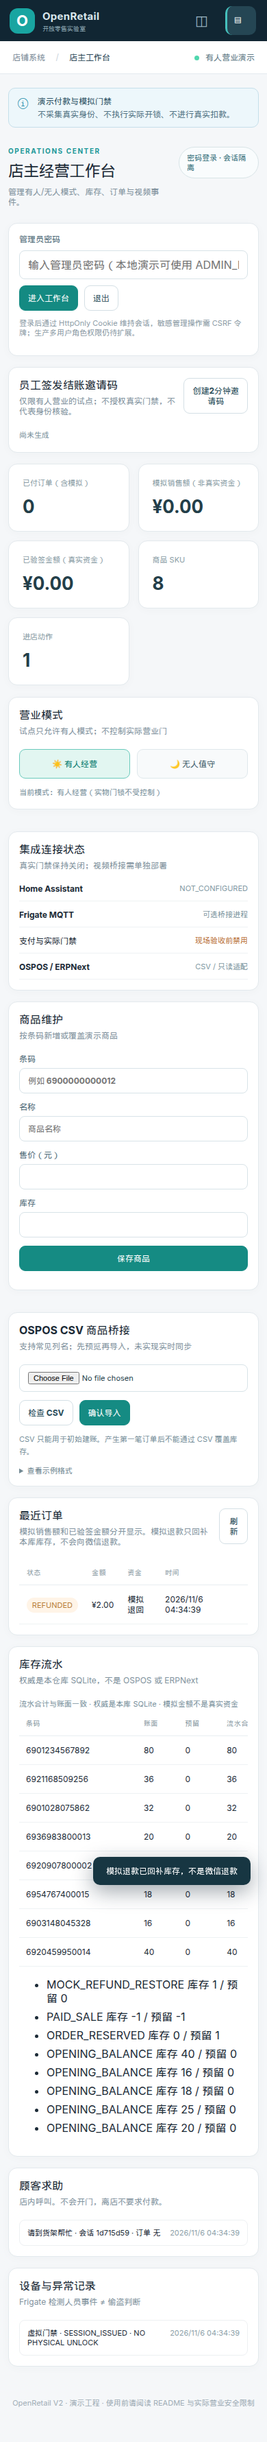
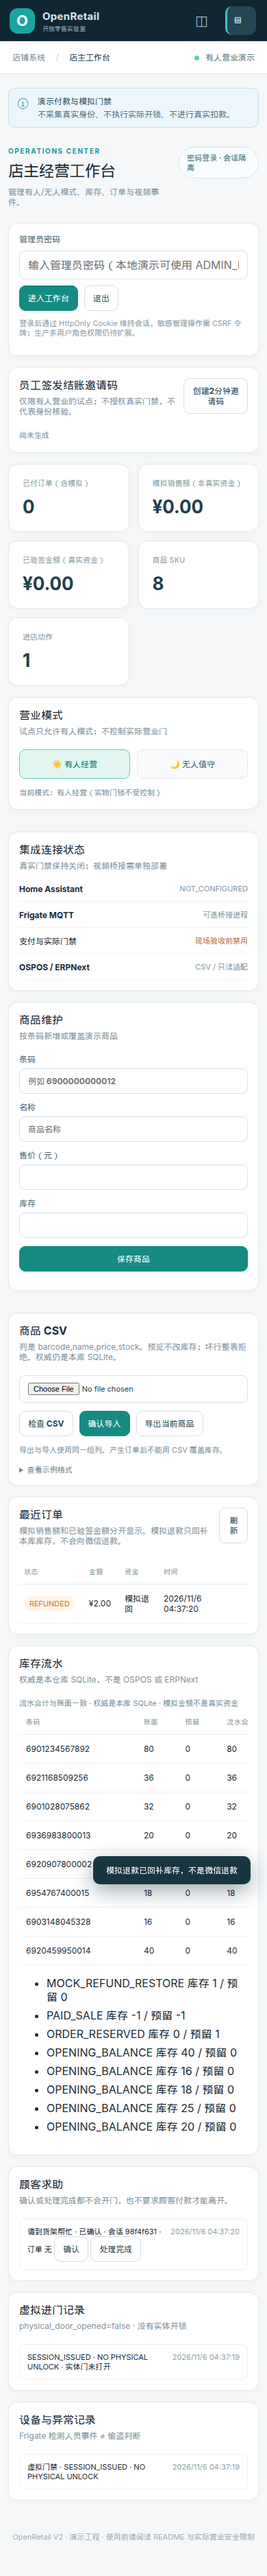
Export the SQLite catalog and let staff close help requests.
CSV export uses the same barcode, name, price, and stock columns as import. A bad file or a preview does not change stock. Staff can acknowledge help requests, and the admin page lists virtual entry events with the physical door still closed.

Changed region(s): [[0.0308, 0.0, 0.9538, 0.9666], [0.7385, 0.343, 0.9231, 0.4053], [0.7385, 0.2806, 0.7692, 0.3118]]

diff --git a/web/app.js b/web/app.js
@@ -42,9 +42,9 @@ async function showEntryStatus(){const status=await api('/api/entry/status',{gue
 async function createOrder(){if(!state.token)throw Error('先创建访客会话');const req={request_id:(crypto.randomUUID?.()||('demo-'+Date.now()+'-'+Math.random())),lines:[...state.cart].map(([product_id,quantity])=>({product_id,quantity}))};const r=await api('/api/orders',{method:'POST',body:req,guest:true});state.orderId=r.id;$('cancel-order-btn').disabled=false;$('pay-btn').disabled=state.paymentProvider==='DISABLED';$('payment-qr').hidden=true;showPay(r);await refreshMine();return r}
 async function confirmMock(){const r=await api('/api/payments/mock-confirm',{method:'POST',body:{order_id:state.orderId},guest:true});showPay(r);if(r.status==='PAID'){state.cart.clear();state.orderId='';$('cancel-order-btn').disabled=true;$('pay-btn').disabled=true;await loadProducts()}await refreshMine();return r}
 function fundLabel(order){if(order.status==='PAID'&&order.provider==='MOCK_NOT_REAL_MONEY')return '模拟销售额';if(Number(order.verified)===1)return '已验签真实资金';if(order.status==='REFUNDED'&&order.provider==='MOCK_NOT_REAL_MONEY')return '模拟退回';return '未收款'}
-async function adminRefresh(){if(!state.csrf)return;const [overview,orders,events,ledger,help]=await Promise.all([api('/api/admin/overview',{admin:true}),api('/api/admin/orders',{admin:true}),api('/api/admin/events',{admin:true}),api('/api/admin/inventory-ledger',{admin:true}),api('/api/admin/help-requests',{admin:true})]);$('admin-body').hidden=false;$('m-orders').textContent=overview.paid_orders;$('m-sales').textContent=money(overview.simulated_revenue_cents);$('m-real').textContent=money(overview.verified_revenue_cents);$('m-products').textContent=overview.products;$('m-entries').textContent=overview.door_events;$('mode-info').textContent='当前模式：'+(overview.mode==='UNATTENDED'?'无人值守':'有人经营')+'（实物门锁不受控制）';$('ha-state').textContent=overview.home_assistant.status;$('mode-staffed').classList.toggle('selected',overview.mode==='STAFFED');$('mode-unattended').classList.toggle('selected',overview.mode==='UNATTENDED');$('order-table').innerHTML=orders.map(o=>{const refund=o.status==='PAID'&&o.provider==='MOCK_NOT_REAL_MONEY'&&Number(o.verified)!==1?`<button class="btn secondary" type="button" data-mock-refund="${esc(o.id)}">模拟退款</button>`:'';return `<tr><td title="${esc(o.id)}">${esc(o.id.slice(0,12))}…</td><td><span class="status ${o.status==='PAID'?'paid':''}">${esc(o.status)}</span></td><td>${money(o.total_cents)}</td><td>${esc(fundLabel(o))}</td><td>${time(o.created_at)}</td><td>${refund}</td></tr>`}).join('')||'<tr><td colspan="6">暂无订单</td></tr>';$('ledger-balance').textContent=(ledger.balanced?'流水合计与账面一致':'流水与账面不一致，需要人工核对')+' · 权威是本库 SQLite · 模拟金额不是真实资金';$('ledger-table').innerHTML=ledger.products.map(p=>`<tr><td>${esc(p.barcode)}</td><td>${p.stock}</td><td>${p.reserved_stock}</td><td>${p.ledger_stock}</td><td>${p.balanced?'一致':'不一致'}</td></tr>`).join('')||'<tr><td colspan="5">没有商品</td></tr>';$('ledger-moves').innerHTML=ledger.movements.slice(0,8).map(m=>`<li>${esc(m.reason)} 库存 ${m.stock_delta} / 预留 ${m.reserved_delta}</li>`).join('');$('help-list').innerHTML=(help.requests||[]).map(h=>`<div class="event"><span>${esc(h.message)} · 会话 ${esc((h.session_id||'无').slice(0,8))} · 订单 ${esc((h.order_id||'无').slice(0,8))}</span><time>${time(h.created_at)}</time></div>`).join('')||'<p class="muted">没有求助</p>';const incident=events.frigate.map(e=>({name:'Frigate 人员事件 · '+e.camera+' · '+e.event_type,t:e.created_at})),doors=events.door.map(e=>({name:'虚拟门禁 · '+e.result+' · '+e.detail,t:e.created_at}));$('event-list').innerHTML=[...incident,...doors].sort((a,b)=>b.t-a.t).slice(0,15).map(e=>`<div class="event"><span>${esc(e.name)}</span><time>${time(e.t)}</time></div>`).join('')||'<p class="muted">暂无设备事件</p>'}
+async function adminRefresh(){if(!state.csrf)return;const [overview,orders,events,ledger,help]=await Promise.all([api('/api/admin/overview',{admin:true}),api('/api/admin/orders',{admin:true}),api('/api/admin/events',{admin:true}),api('/api/admin/inventory-ledger',{admin:true}),api('/api/admin/help-requests',{admin:true})]);$('admin-body').hidden=false;$('m-orders').textContent=overview.paid_orders;$('m-sales').textContent=money(overview.simulated_revenue_cents);$('m-real').textContent=money(overview.verified_revenue_cents);$('m-products').textContent=overview.products;$('m-entries').textContent=overview.door_events;$('mode-info').textContent='当前模式：'+(overview.mode==='UNATTENDED'?'无人值守':'有人经营')+'（实物门锁不受控制）';$('ha-state').textContent=overview.home_assistant.status;$('mode-staffed').classList.toggle('selected',overview.mode==='STAFFED');$('mode-unattended').classList.toggle('selected',overview.mode==='UNATTENDED');$('order-table').innerHTML=orders.map(o=>{const refund=o.status==='PAID'&&o.provider==='MOCK_NOT_REAL_MONEY'&&Number(o.verified)!==1?`<button class="btn secondary" type="button" data-mock-refund="${esc(o.id)}">模拟退款</button>`:'';return `<tr><td title="${esc(o.id)}">${esc(o.id.slice(0,12))}…</td><td><span class="status ${o.status==='PAID'?'paid':''}">${esc(o.status)}</span></td><td>${money(o.total_cents)}</td><td>${esc(fundLabel(o))}</td><td>${time(o.created_at)}</td><td>${refund}</td></tr>`}).join('')||'<tr><td colspan="6">暂无订单</td></tr>';$('ledger-balance').textContent=(ledger.balanced?'流水合计与账面一致':'流水与账面不一致，需要人工核对')+' · 权威是本库 SQLite · 模拟金额不是真实资金';$('ledger-table').innerHTML=ledger.products.map(p=>`<tr><td>${esc(p.barcode)}</td><td>${p.stock}</td><td>${p.reserved_stock}</td><td>${p.ledger_stock}</td><td>${p.balanced?'一致':'不一致'}</td></tr>`).join('')||'<tr><td colspan="5">没有商品</td></tr>';$('ledger-moves').innerHTML=ledger.movements.slice(0,8).map(m=>`<li>${esc(m.reason)} 库存 ${m.stock_delta} / 预留 ${m.reserved_delta}</li>`).join('');const helpLabel={OPEN:'待处理',ACKNOWLEDGED:'已确认',RESOLVED:'已处理'};$('help-list').innerHTML=(help.requests||[]).map(h=>{const buttons=h.status==='RESOLVED'?'':`<button class="btn secondary" type="button" data-help-id="${esc(h.id)}" data-help-status="ACKNOWLEDGED">确认</button> <button class="btn secondary" type="button" data-help-id="${esc(h.id)}" data-help-status="RESOLVED">处理完成</button>`;return `<div class="event"><span>${esc(h.message)} · ${esc(helpLabel[h.status]||h.status)} · 会话 ${esc((h.session_id||'无').slice(0,8))} · 订单 ${esc((h.order_id||'无').slice(0,8))} ${buttons}</span><time>${time(h.created_at)}</time></div>`}).join('')||'<p class="muted">没有求助</p>';$('door-lock-note').textContent=events.physical_door_opened===false?'physical_door_opened=false · 没有实体开锁':'门状态异常';$('door-event-list').innerHTML=(events.door||[]).map(e=>`<div class="event"><span>${esc(e.result)} · ${esc(e.detail)} · 实体门未打开</span><time>${time(e.created_at)}</time></div>`).join('')||'<p class="muted">没有虚拟进门记录</p>';const incident=events.frigate.map(e=>({name:'Frigate 人员事件 · '+e.camera+' · '+e.event_type,t:e.created_at})),doors=events.door.map(e=>({name:'虚拟门禁 · '+e.result+' · '+e.detail,t:e.created_at}));$('event-list').innerHTML=[...incident,...doors].sort((a,b)=>b.t-a.t).slice(0,15).map(e=>`<div class="event"><span>${esc(e.name)}</span><time>${time(e.t)}</time></div>`).join('')||'<p class="muted">暂无设备事件</p>'}
 async function run(fn){try{await fn()}catch(e){toast(e.message);console.error(e)}}
-document.addEventListener('click',e=>{const refund=e.target.closest('[data-mock-refund]');if(refund){run(async()=>{const r=await api('/api/admin/orders/'+refund.dataset.mockRefund+'/mock-refund',{admin:true,method:'POST'});toast(r.real_money?'异常：模拟退款不应产生真实资金':'模拟退款已回补库存，不是微信退款');await adminRefresh();await loadProducts()});return}const nav=e.target.closest('[data-panel]');if(nav){document.querySelectorAll('.nav').forEach(n=>n.classList.toggle('active',n===nav));['shop','admin'].forEach(p=>$('panel-'+p).hidden=p!==nav.dataset.panel);$('current-title').textContent=nav.dataset.panel==='shop'?'顾客自助购物':'店主工作台';if(nav.dataset.panel==='admin')run(adminRefresh)}const addButton=e.target.closest('[data-add]');if(addButton)add(addButton.dataset.add);const minus=e.target.closest('[data-minus]');if(minus){if(state.orderId){toast('请先完成或取消当前订单');return}const id=Number(minus.dataset.minus);const q=(state.cart.get(id)||0)-1;if(q<=0)state.cart.delete(id);else state.cart.set(id,q);state.orderId='';$('pay-btn').disabled=true;renderCart()}});
+document.addEventListener('click',e=>{const refund=e.target.closest('[data-mock-refund]');if(refund){run(async()=>{const r=await api('/api/admin/orders/'+refund.dataset.mockRefund+'/mock-refund',{admin:true,method:'POST'});toast(r.real_money?'异常：模拟退款不应产生真实资金':'模拟退款已回补库存，不是微信退款');await adminRefresh();await loadProducts()});return}const helpAction=e.target.closest('[data-help-status]');if(helpAction){run(async()=>{const r=await api('/api/admin/help-requests/'+helpAction.dataset.helpId+'/status',{admin:true,method:'POST',body:{status:helpAction.dataset.helpStatus}});if(r.physical_door_opened||r.payment_required_to_leave||r.door_authorized)throw Error('处理求助不应开门或要求付款');toast(r.status==='RESOLVED'?'求助已处理，门未打开':'已确认求助，门未打开');await adminRefresh()});return}const nav=e.target.closest('[data-panel]');if(nav){document.querySelectorAll('.nav').forEach(n=>n.classList.toggle('active',n===nav));['shop','admin'].forEach(p=>$('panel-'+p).hidden=p!==nav.dataset.panel);$('current-title').textContent=nav.dataset.panel==='shop'?'顾客自助购物':'店主工作台';if(nav.dataset.panel==='admin')run(adminRefresh)}const addButton=e.target.closest('[data-add]');if(addButton)add(addButton.dataset.add);const minus=e.target.closest('[data-minus]');if(minus){if(state.orderId){toast('请先完成或取消当前订单');return}const id=Number(minus.dataset.minus);const q=(state.cart.get(id)||0)-1;if(q<=0)state.cart.delete(id);else state.cart.set(id,q);state.orderId='';$('pay-btn').disabled=true;renderCart()}});
 $('entry-btn').onclick=()=>run(async()=>{const s=await api('/api/entry',{method:'POST'});state.token=s.guest_token;sessionStorage.setItem('retail_guest',state.token);$('entry-result').textContent='访客会话创建成功（未进行身份核验）；有效期至 '+time(s.expires_at);$('door-btn').disabled=false;await showEntryStatus();renderCart();toast('演示访客会话已创建')});
 $('door-btn').onclick=()=>run(async()=>{if(!state.token)throw Error('请先创建会话');const r=await api('/api/door/open',{method:'POST',guest:true});if(r.physical_door_opened)throw Error('实体门状态异常');$('entry-result').textContent='开门结果：'+r.result+'。实际门锁未动作。';$('entry-status').textContent='实体门未打开 · physical_door_opened=false · 虚拟事件 '+(r.events||[]).map(e=>e.result).join('、');toast('仅模拟开门成功')});
 $('help-btn').onclick=()=>run(async()=>{const message=$('help-message').value.trim();const r=await api('/api/help',{method:'POST',body:{message,order_id:state.orderId||null},guest:!!state.token});if(r.physical_door_opened||r.payment_required_to_leave)throw Error('求助状态异常');$('help-result').textContent='已通知店员 · '+time(r.created_at)+' · 不会打开实体门 · 离店不需要付款';$('help-message').value='';toast('已呼叫店员')});
@@ -110,6 +110,7 @@ $('refresh-admin').onclick=()=>run(async()=>{await adminRefresh();await loadProd
 $('product-form').onsubmit=e=>{e.preventDefault();run(async()=>{const f=new FormData(e.target);const r=await api('/api/admin/products',{admin:true,method:'POST',body:{barcode:String(f.get('barcode')).trim(),name:String(f.get('name')).trim(),price_cents:Math.round(Number(f.get('price'))*100),stock:Number(f.get('stock')),active:true}});if(r.ok){$('product-status').textContent='商品已保存';e.target.reset();await adminRefresh();await loadProducts();toast('商品保存成功')}})};
 async function uploadCsv(dry){const file=$('csv-file').files?.[0];if(!file)throw Error('请先选择 CSV 文件');if(!dry&&!confirm('仅允许首次建账导入；已有订单将拒绝覆盖库存。确定继续？'))return;const data=new FormData();data.append('file',file);const r=await api('/api/admin/import-products?dry_run='+String(dry),{admin:true,method:'POST',form:true,body:data});$('csv-status').textContent=dry?'检查通过，共 '+r.count+' 条：'+r.preview.map(x=>x.name).slice(0,4).join('、'):'已导入 '+r.count+' 条商品。注意不会自动同步到 OSPOS。';if(!dry){await loadProducts();await adminRefresh()}toast(dry?'CSV 检查通过':'CSV 已导入')}
 $('csv-preview').onclick=()=>run(()=>uploadCsv(true));$('csv-import').onclick=()=>run(()=>uploadCsv(false));
+$('csv-export').onclick=()=>run(async()=>{const res=await fetch('/api/admin/export-products',{credentials:'same-origin',cache:'no-store'});if(!res.ok)throw Error('导出失败');const text=await res.text();const blob=new Blob([text],{type:'text/csv'});const link=document.createElement('a');link.href=URL.createObjectURL(blob);link.download='openretail-products.csv';link.click();URL.revokeObjectURL(link.href);if(!text.startsWith('barcode,name,price,stock'))throw Error('导出列不正确');$('csv-status').textContent='已导出当前 SQLite 商品，列与导入相同。';toast('商品 CSV 已导出')});
 if(state.token){$('door-btn').disabled=false;$('entry-result').textContent='已恢复当前浏览器的访客会话（可能已过期）';run(async()=>{await showEntryStatus();await refreshMine()})}
 // 管理员密码和 CSRF 令牌仅存在内存中；刷新页面后需重新登录。
 run(async()=>{await store();await loadProducts()});

diff --git a/web/index.html b/web/index.html
@@ -52,12 +52,13 @@
         </div>
         <div class="admin-grid">
           <article class="surface"><div class="surface-heading"><div><h2>商品维护</h2><p>按条码新增或覆盖演示商品</p></div></div><form id="product-form" class="product-form"><label>条码<input name="barcode" placeholder="例如 6900000000012" required></label><label>名称<input name="name" placeholder="商品名称" required></label><label>售价（元）<input name="price" type="number" min="0" step="0.01" required></label><label>库存<input name="stock" type="number" min="0" step="1" required></label><button class="btn primary" type="submit">保存商品</button></form><div class="inline-note" id="product-status"></div></article>
-          <article class="surface"><div class="surface-heading"><div><h2>OSPOS CSV 商品桥接</h2><p>支持常见列名；先预览再导入，未实现实时同步</p></div></div><input type="file" id="csv-file" accept=".csv,text/csv"><div class="actions"><button class="btn secondary" id="csv-preview">检查 CSV</button><button class="btn primary" id="csv-import">确认导入</button></div><div id="csv-status" class="inline-note">CSV 只能用于初始建账。产生第一笔订单后不能通过 CSV 覆盖库存。</div><details><summary>查看示例格式</summary><pre>barcode,name,price,stock
+          <article class="surface"><div class="surface-heading"><div><h2>商品 CSV</h2><p>列是 barcode,name,price,stock。预览不改库存；坏行整表拒绝。权威仍是本库 SQLite。</p></div></div><input type="file" id="csv-file" accept=".csv,text/csv"><div class="actions"><button class="btn secondary" id="csv-preview" type="button">检查 CSV</button><button class="btn primary" id="csv-import" type="button">确认导入</button><button class="btn secondary" id="csv-export" type="button">导出当前商品</button></div><div id="csv-status" class="inline-note">导出与导入使用同一组列。产生订单后不能用 CSV 覆盖库存。</div><details><summary>查看示例格式</summary><pre>barcode,name,price,stock
 6900000010001,演示商品,12.50,30</pre></details></article>
         </div>
         <article class="surface"><div class="surface-heading"><div><h2>最近订单</h2><p>模拟销售额和已验签金额分开显示。模拟退款只回补本库库存，不会向微信退款。</p></div><button id="refresh-admin" class="btn secondary">刷新</button></div><div class="table-wrap"><table><thead><tr><th>订单编号</th><th>状态</th><th>金额</th><th>资金</th><th>时间</th><th></th></tr></thead><tbody id="order-table"><tr><td colspan="6">尚无数据</td></tr></tbody></table></div></article>
         <article class="surface"><div class="surface-heading"><div><h2>库存流水</h2><p>权威是本仓库 SQLite，不是 OSPOS 或 ERPNext</p></div></div><div id="ledger-balance" class="inline-note">登录后核对</div><div class="table-wrap"><table><thead><tr><th>条码</th><th>账面</th><th>预留</th><th>流水合计</th><th>核对</th></tr></thead><tbody id="ledger-table"><tr><td colspan="5">尚未加载</td></tr></tbody></table></div><ul id="ledger-moves" class="events"></ul></article>
-        <article class="surface"><div class="surface-heading"><div><h2>顾客求助</h2><p>店内呼叫。不会开门，离店不要求付款。</p></div></div><div id="help-list" class="events"><p class="muted">没有求助</p></div></article>
+        <article class="surface"><div class="surface-heading"><div><h2>顾客求助</h2><p>确认或处理完成都不会开门，也不要求顾客付款才能离开。</p></div></div><div id="help-list" class="events"><p class="muted">没有求助</p></div></article>
+        <article class="surface"><div class="surface-heading"><div><h2>虚拟进门记录</h2><p id="door-lock-note">实体门未打开</p></div></div><div id="door-event-list" class="events"><p class="muted">没有虚拟进门记录</p></div></article>
         <article class="surface"><div class="surface-heading"><div><h2>设备与异常记录</h2><p>Frigate 检测人员事件 ≠ 偷盗判断</p></div></div><div id="event-list" class="events"><p class="muted">没有事件</p></div></article>
       </div>
     </section>

diff --git a/openretail/main.py b/openretail/main.py
@@ -28,7 +28,7 @@ from .database import Database
 from .security import digest,random_token,password_verify
 from .wechat import WeChatNative,PaymentSignatureError
 from .adapters import HomeAssistantAdapter,ERPNextReader,IntegrationError
-from .importer import parse_catalog,ImportErrorDetail
+from .importer import parse_catalog,write_catalog,ImportErrorDetail
 
 ROOT=Path(__file__).resolve().parent.parent
 
@@ -69,6 +69,8 @@ class StockChange(BaseModel):
 class HelpInput(BaseModel):
     message:str=Field(min_length=2,max_length=400)
     order_id:str|None=Field(default=None,max_length=64)
+class HelpStatus(BaseModel):
+    status:str
 
 
 def create_app(settings:Settings|None=None)->FastAPI:
@@ -344,8 +346,8 @@ def create_app(settings:Settings|None=None)->FastAPI:
                 owned=c.execute('SELECT id FROM orders WHERE id=? AND session_id=?',(payload.order_id,sid)).fetchone()
                 if not owned:abort(404,'订单不存在')
                 order_id=payload.order_id
-            cur=c.execute('INSERT INTO help_requests(session_id,order_id,message,created_at) VALUES(?,?,?,?)',
-                          (sid,order_id,message,ts))
+            cur=c.execute('''INSERT INTO help_requests(session_id,order_id,message,created_at,status)
+                             VALUES(?,?,?,?,?)''',(sid,order_id,message,ts,'OPEN'))
             request_id=cur.lastrowid
             db.audit(c,'visitor','HELP_REQUEST',(sid or 'anonymous')[:12])
         return {'id':request_id,'created_at':ts,'session_recorded':sid is not None,'order_id':order_id,
@@ -792,7 +794,16 @@ def create_app(settings:Settings|None=None)->FastAPI:
                 product=c.execute('SELECT id FROM products WHERE barcode=?',(p['barcode'],)).fetchone()
                 db.movement(c,product['id'],p['stock']-(old['stock'] if old else 0),0,'CSV_INITIAL_IMPORT',p['barcode'])
             db.audit(c,'operator','CSV_INITIAL_IMPORT',f'count={len(items)}')
-        return {'dry_run':False,'count':len(items),'notice':'单次初始导入完成；禁止后续覆盖订单账本'}
+        return {'dry_run':False,'count':len(items),'notice':'单次初始导入完成；禁止后续覆盖订单账本',
+                'system_of_record':'sqlite'}
+
+    @app.get('/api/admin/export-products',dependencies=[Depends(admin)])
+    def export_products():
+        with db.connect() as c:
+            rows=c.execute('SELECT barcode,name,price_cents,stock FROM products ORDER BY id').fetchall()
+        body=write_catalog(rows)
+        return Response(body,media_type='text/csv; charset=utf-8',
+                        headers={'Content-Disposition':'attachment; filename="openretail-products.csv"'})
 
     @app.get('/api/admin/orders',dependencies=[Depends(admin)])
     def admin_orders():
@@ -805,9 +816,26 @@ def create_app(settings:Settings|None=None)->FastAPI:
     @app.get('/api/admin/help-requests',dependencies=[Depends(admin)])
     def admin_help_requests():
         with db.connect() as c:
-            rows=[asdict(x) for x in c.execute('''SELECT id,session_id,order_id,message,created_at
+            rows=[asdict(x) for x in c.execute('''SELECT id,session_id,order_id,message,created_at,status
                                                   FROM help_requests ORDER BY id DESC LIMIT 50''')]
         return {'physical_door_opened':False,'payment_required_to_leave':False,'requests':rows}
+
+    @app.post('/api/admin/help-requests/{request_id}/status',dependencies=[Depends(admin)])
+    def update_help_status(request_id:int,payload:HelpStatus):
+        """Mark a help request seen or done. Never opens a door or collects payment."""
+        if payload.status not in ('ACKNOWLEDGED','RESOLVED'):
+            abort(422,'状态只能是 ACKNOWLEDGED 或 RESOLVED')
+        with db.tx() as c:
+            row=c.execute('SELECT id,status FROM help_requests WHERE id=?',(request_id,)).fetchone()
+            if not row:abort(404,'求助不存在')
+            if row['status']=='RESOLVED' and payload.status!='RESOLVED':
+                abort(409,'已处理的求助不能改回未处理')
+            outcome='IDEMPOTENT' if row['status']==payload.status else payload.status
+            if outcome!='IDEMPOTENT':
+                c.execute('UPDATE help_requests SET status=? WHERE id=?',(payload.status,request_id))
+                db.audit(c,'operator','HELP_'+payload.status,str(request_id))
+        return {'id':request_id,'status':payload.status,'outcome':outcome,
+                'physical_door_opened':False,'door_authorized':False,'payment_required_to_leave':False}
 
     @app.get('/api/admin/stock-movements',dependencies=[Depends(admin)])
     def stock_movements(limit:int=Query(default=100,ge=1,le=500)):
@@ -838,7 +866,8 @@ def create_app(settings:Settings|None=None)->FastAPI:
     @app.get('/api/admin/events',dependencies=[Depends(admin)])
     def admin_events():
         with db.connect() as c:
-            return {'door':[asdict(x) for x in c.execute('SELECT id,result,provider,detail,created_at FROM door_events ORDER BY id DESC LIMIT 40')],
+            return {'physical_door_opened':False,
+                    'door':[asdict(x) for x in c.execute('SELECT id,result,provider,detail,created_at FROM door_events ORDER BY id DESC LIMIT 40')],
                     'frigate':[asdict(x) for x in c.execute('SELECT * FROM incidents ORDER BY id DESC LIMIT 40')],
                     'audit':[asdict(x) for x in c.execute('SELECT actor,action,detail,created_at FROM audit_events ORDER BY id DESC LIMIT 40')]}
 

diff --git a/tests/test_integrations.py b/tests/test_integrations.py
@@ -18,6 +18,35 @@ def test_ospos_style_csv_import(client,admin_header):
     assert item['price_cents']==1050 and item['stock']==22
 
 
+def test_export_uses_import_columns_and_bad_csv_keeps_stock(client,admin_header):
+    from conftest import visitor
+    def total():
+        return sum(item['stock'] for item in client.get('/api/products').json())
+    before=total()
+    exported=client.get('/api/admin/export-products',headers=admin_header)
+    assert exported.status_code==200
+    assert exported.headers['content-type'].startswith('text/csv')
+    lines=exported.text.splitlines()
+    assert lines[0]=='barcode,name,price,stock'
+    assert len(lines)==9
+    preview=client.post('/api/admin/import-products?dry_run=true',headers=admin_header,
+                        files={'file':('roundtrip.csv',exported.text,'text/csv')})
+    assert preview.status_code==200 and preview.json()['count']==8
+    assert total()==before
+    bad=b'barcode,name,price,stock\n001,Good,1.50,4\n002,Bad,-1,2\n'
+    assert client.post('/api/admin/import-products?dry_run=false',headers=admin_header,
+                       files={'file':('bad.csv',bad,'text/csv')}).status_code==422
+    assert total()==before
+    guest=visitor(client)
+    product=client.get('/api/products').json()[0]
+    assert client.post('/api/orders',headers=guest,json={'request_id':'block-export-reimport',
+        'lines':[{'product_id':product['id'],'quantity':1}]}).status_code==201
+    held=total()
+    assert client.post('/api/admin/import-products?dry_run=false',headers=admin_header,
+                       files={'file':('again.csv',exported.text,'text/csv')}).status_code==409
+    assert total()==held
+
+
 def test_bad_csv_rejected(client,admin_header):
     data=b'barcode,name,price,stock\n001,Pen,-10,3\n'
     resp=client.post('/api/admin/import-products',headers=admin_header,files={'file':('bad.csv',data)})

diff --git a/tests/test_customer_ux.py b/tests/test_customer_ux.py
@@ -111,6 +111,21 @@ def test_help_request_does_not_open_a_door_or_require_payment(client,admin_heade
     after=client.get('/api/admin/events',headers=admin_header).json()['door']
     assert after==before
     assert client.get('/api/admin/help-requests').status_code==401
+    created=client.post('/api/help',json={'message':'需要购物袋'}).json()
+    doors=client.get('/api/admin/events',headers=admin_header).json()
+    assert doors['physical_door_opened'] is False
+    results={row['result'] for row in doors['door']}
+    assert 'SESSION_ISSUED' in results
+    ack=client.post(f"/api/admin/help-requests/{created['id']}/status",headers=admin_header,json={'status':'ACKNOWLEDGED'})
+    assert ack.status_code==200
+    assert ack.json()['outcome']=='ACKNOWLEDGED' and ack.json()['physical_door_opened'] is False
+    assert ack.json()['payment_required_to_leave'] is False and ack.json()['door_authorized'] is False
+    again=client.post(f"/api/admin/help-requests/{created['id']}/status",headers=admin_header,json={'status':'ACKNOWLEDGED'})
+    assert again.json()['outcome']=='IDEMPOTENT'
+    done=client.post(f"/api/admin/help-requests/{created['id']}/status",headers=admin_header,json={'status':'RESOLVED'})
+    assert done.json()['status']=='RESOLVED' and done.json()['physical_door_opened'] is False
+    assert client.post(f"/api/admin/help-requests/{created['id']}/status",headers=admin_header,json={'status':'ACKNOWLEDGED'}).status_code==409
+    assert client.get('/api/admin/events',headers=admin_header).json()['door']==doors['door']
 
 
 def test_virtual_entry_events_keep_the_physical_door_closed(client,admin_header):

diff --git a/openretail/database.py b/openretail/database.py
@@ -84,7 +84,8 @@ CREATE TABLE IF NOT EXISTS help_requests(
  session_id TEXT,
  order_id TEXT,
  message TEXT NOT NULL,
- created_at INTEGER NOT NULL
+ created_at INTEGER NOT NULL,
+ status TEXT NOT NULL DEFAULT 'OPEN' CHECK(status IN ('OPEN','ACKNOWLEDGED','RESOLVED'))
 );
 CREATE INDEX IF NOT EXISTS idx_orders_status_exp ON orders(status,expires_at);
 CREATE INDEX IF NOT EXISTS idx_orders_session ON orders(session_id,created_at);
@@ -137,6 +138,9 @@ class Database:
             if cols and 'reserved_stock' not in cols:c.execute('ALTER TABLE products ADD COLUMN reserved_stock INTEGER NOT NULL DEFAULT 0')
             cols={x['name'] for x in c.execute('PRAGMA table_info(guest_sessions)')}
             if cols and 'verified_identity_hash' not in cols:c.execute('ALTER TABLE guest_sessions ADD COLUMN verified_identity_hash TEXT')
+            help_cols={x['name'] for x in c.execute('PRAGMA table_info(help_requests)')}
+            if help_cols and 'status' not in help_cols:
+                c.execute("ALTER TABLE help_requests ADD COLUMN status TEXT NOT NULL DEFAULT 'OPEN'")
             cols={x['name'] for x in c.execute('PRAGMA table_info(orders)')}
             if cols and 'payment_reference' not in cols:c.execute('ALTER TABLE orders ADD COLUMN payment_reference TEXT')
             order_table=c.execute("SELECT sql FROM sqlite_master WHERE type='table' AND name='orders'").fetchone()

diff --git a/tests/test_ops.py b/tests/test_ops.py
@@ -80,6 +80,17 @@ def test_example_profiles_use_distinct_databases():
     assert staging.endswith('/staging/openretail.sqlite3')
     assert production.endswith('/production/openretail.sqlite3')
 
+def test_help_request_status_column_defaults_open(tmp_path):
+    path=tmp_path/'legacy-help.sqlite3'
+    with sqlite3.connect(path) as conn:
+        conn.execute('''CREATE TABLE help_requests(
+            id INTEGER PRIMARY KEY AUTOINCREMENT, session_id TEXT, order_id TEXT,
+            message TEXT NOT NULL, created_at INTEGER NOT NULL)''')
+        conn.execute("INSERT INTO help_requests(message,created_at) VALUES('old',1)")
+    Database(str(path)).init(demo=False)
+    with sqlite3.connect(path) as conn:
+        assert conn.execute('SELECT status FROM help_requests').fetchone()[0]=='OPEN'
+
 def test_missing_secrets_fail_closed():
     with pytest.raises(RuntimeError,match='init_env'):
         Settings(admin_key='',integration_key='',app_secret='',app_mode='staging',mock_payments=False).validate()

diff --git a/scripts/ui_bridge_smoke.py b/scripts/ui_bridge_smoke.py
@@ -57,6 +57,10 @@ with TestClient(create_app(cfg)) as backend,sync_playwright() as pw:
  p.wait_for_function("!document.querySelector('#admin-body').hidden")
  print('admin:',p.locator('#m-orders').inner_text(),'real:',p.locator('#m-real').inner_text(),'errors:',errors)
  p.wait_for_function("document.querySelector('#help-list').textContent.includes('请到货架帮忙')")
+ p.wait_for_function("document.querySelector('#door-event-list').textContent.includes('SESSION_ISSUED')")
+ p.wait_for_function("document.querySelector('#door-lock-note').textContent.includes('physical_door_opened=false')")
+ p.locator('[data-help-status="ACKNOWLEDGED"]').click()
+ p.wait_for_function("document.querySelector('#help-list').textContent.includes('已确认')")
  p.wait_for_function("document.querySelector('#ledger-balance').textContent.includes('一致')")
  p.wait_for_function("document.querySelector('#m-sales').textContent.includes('¥')")
  assert p.locator('#m-real').inner_text()=='¥0.00'

diff --git a/openretail/importer.py b/openretail/importer.py
@@ -12,6 +12,16 @@ ALIASES={
  'stock':['quantity','stock','qty','库存','quantity_in_stock'],
 }
 class ImportErrorDetail(ValueError):pass
+EXPORT_COLUMNS=('barcode','name','price','stock')
+
+def write_catalog(rows)->str:
+    """Same columns the importer accepts. price is yuan, stock is the SQLite on-hand count."""
+    buf=io.StringIO()
+    writer=csv.writer(buf,lineterminator='\n')
+    writer.writerow(EXPORT_COLUMNS)
+    for row in rows:
+        writer.writerow([row['barcode'],row['name'],f"{row['price_cents']/100:.2f}",row['stock']])
+    return buf.getvalue()
 
 def parse_catalog(content:bytes):
     if len(content)>2_000_000:raise ImportErrorDetail('CSV exceeds 2 MB')

diff --git a/docs/PROJECT_STATUS.md b/docs/PROJECT_STATUS.md
@@ -4,6 +4,18 @@
 
 完全无人值守经营仍是 **NOT_APPROVED**。示例配置里的真实支付和实体开锁都是关闭的。
 
+## 本增量（商品 CSV、求助处理、虚拟进门列表）
+
+已在代码和测试里做到，并在本机复跑：
+
+- `GET /api/admin/export-products` 导出 `barcode,name,price,stock`。同一文件可以预览导入，预览不改库存。坏行整表拒绝，已有订单时确认导入仍返回 409，库存合计不变。权威仍是本库 SQLite。
+- 员工可以把求助标成 `ACKNOWLEDGED` 或 `RESOLVED`。重复标记是幂等的。已处理后不能改回确认。响应保持 `physical_door_opened=false`、`payment_required_to_leave=false`，门禁事件条数不变。
+- 管理页单独列出 `SESSION_ISSUED` 等虚拟进门记录，并写 `physical_door_opened=false`。没有新增开锁按钮。
+
+`/tmp/openretail-venv/bin/python -m pytest -q`（工作目录 `/workspace`，Python 3.12.3）：**48 passed，1 warning，4.64s，退出码 0**。警告仍是 Starlette 的 `httpx` TestClient 弃用提示。48 = 上一轮 46 + 本增量 2。
+
+`scripts/ui_bridge_smoke.py` 在去掉密钥环境变量后退出码 0：390 宽 `scrollWidth` 390；管理页出现 `SESSION_ISSUED` 和 `physical_door_opened=false`；求助被点成「已确认」；随后模拟退款仍显示「模拟退回」；`pageerror` 为空；1440 宽 `scrollWidth` 1440。导出按钮没有在这次浏览器脚本里点击，导出列由 pytest 核对。这仍不是真机，也不是微信退款。
+
 ## 本增量（管理端流水、模拟退款、顾客求助、示例库路径）
 
 已在代码和测试里做到，并在本机复跑：
